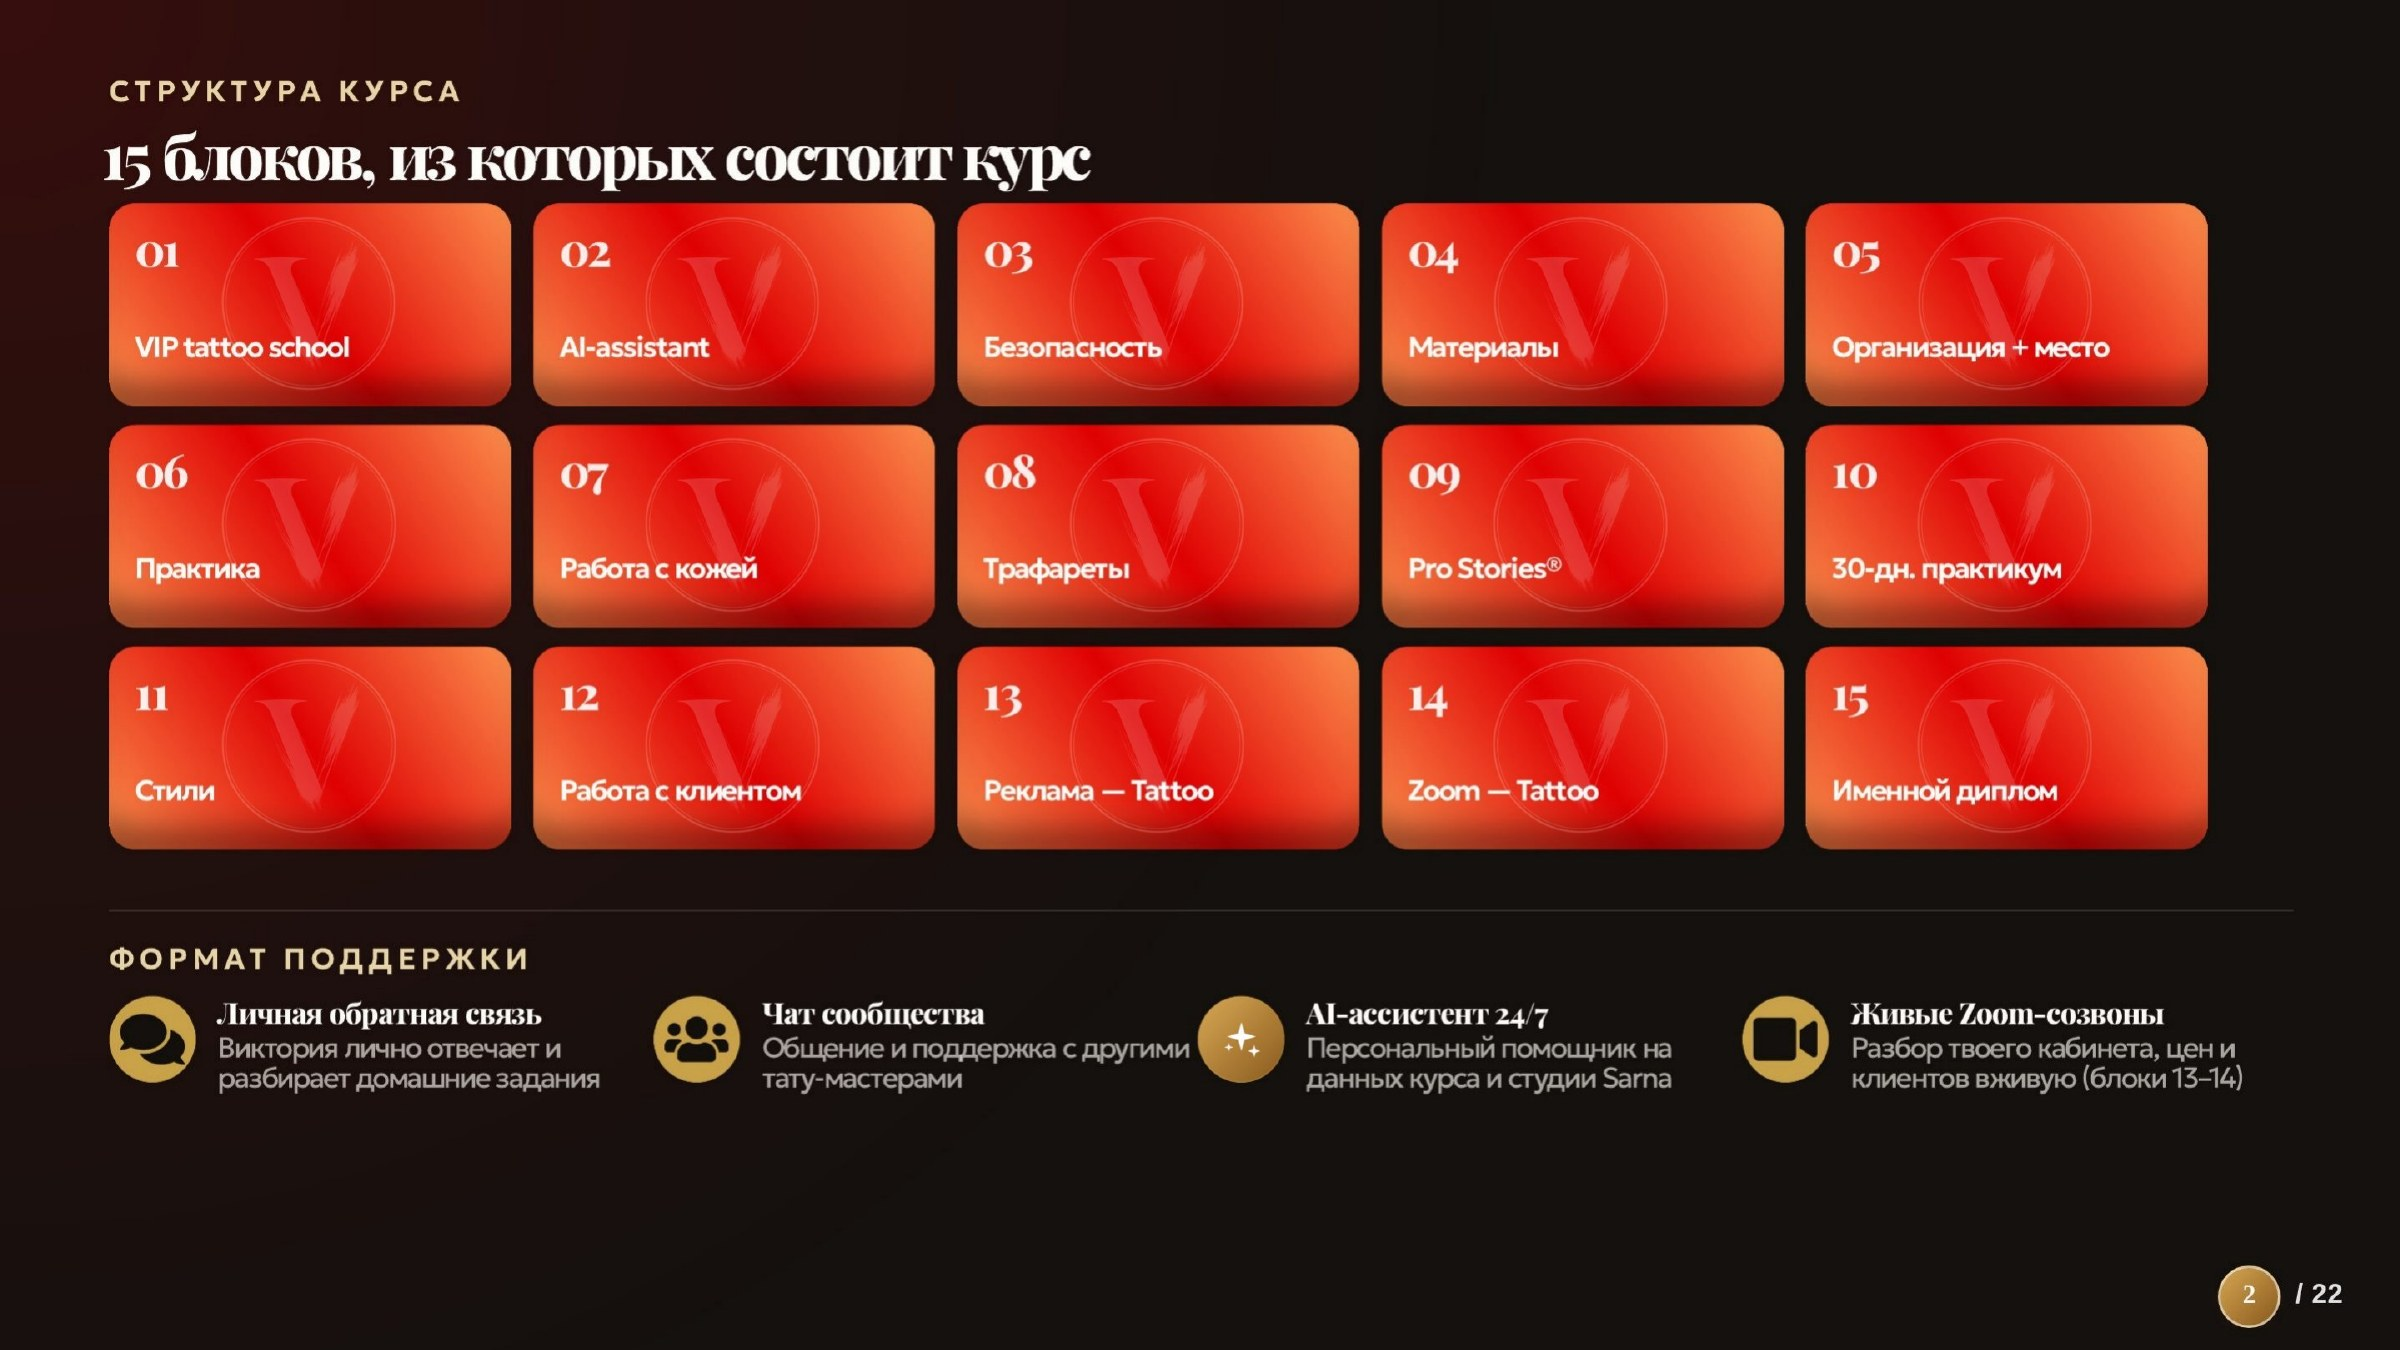
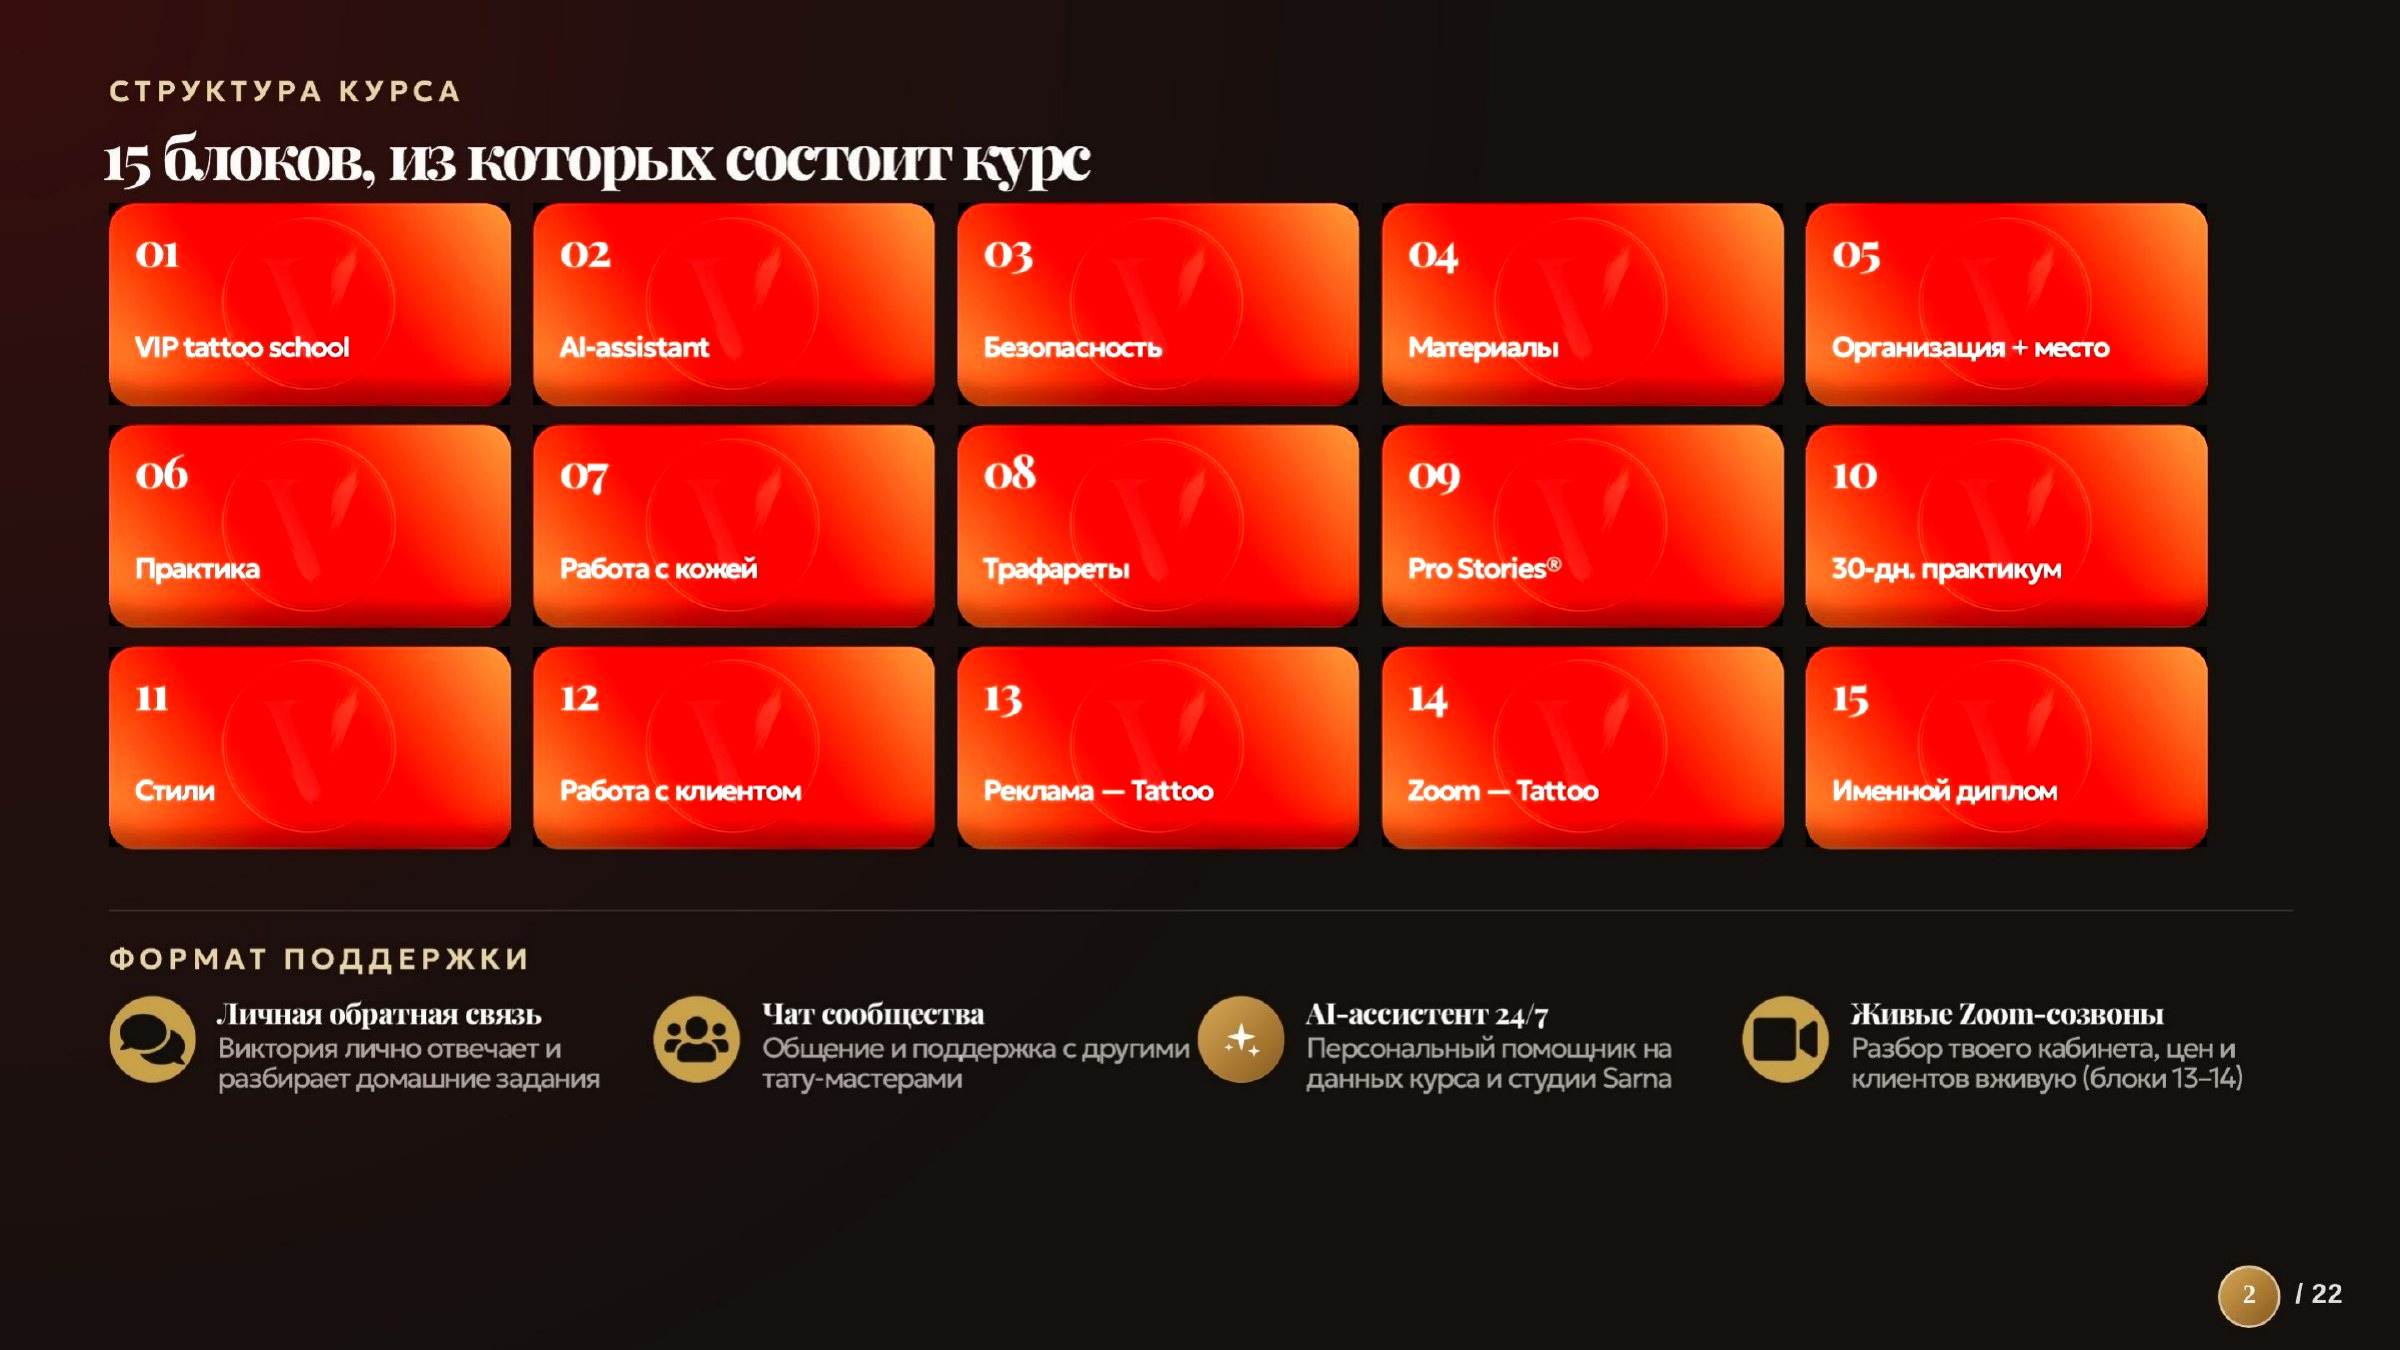
Boost "V" watermark visibility on the 15 program-grid cards
The watermark on each red card in slide-02.jpg was too low-contrast
against the gradient to read clearly. Apply a local contrast boost
within each card's bounds so the "V" stands out more, without
touching the numbers, labels, or card colors. Cache-bust the image
reference since it's updated in place.

Claude-Session: https://claude.ai/code/session_01CnfRud7UFKfhrBcKWTmy69

diff --git a/docs/index.html b/docs/index.html
@@ -82,7 +82,7 @@
 <body>
 <div class="slides">
   <img class="slide-img" src="assets/slides/slide-01.jpg" alt="Слайд 1 — VIP Tattoo School">
-  <img class="slide-img" src="assets/slides/slide-02.jpg" alt="Слайд 2 — структура курса">
+  <img class="slide-img" src="assets/slides/slide-02.jpg?v=2" alt="Слайд 2 — структура курса">
   <img class="slide-img" src="assets/slides/slide-03.jpg" alt="Слайд 3 — блок 1: вступление">
   <img class="slide-img" src="assets/slides/slide-04.jpg" alt="Слайд 4 — блок 2: AI-assistant">
   <img class="slide-img" src="assets/slides/slide-05.jpg" alt="Слайд 5 — блок 3: безопасность">
